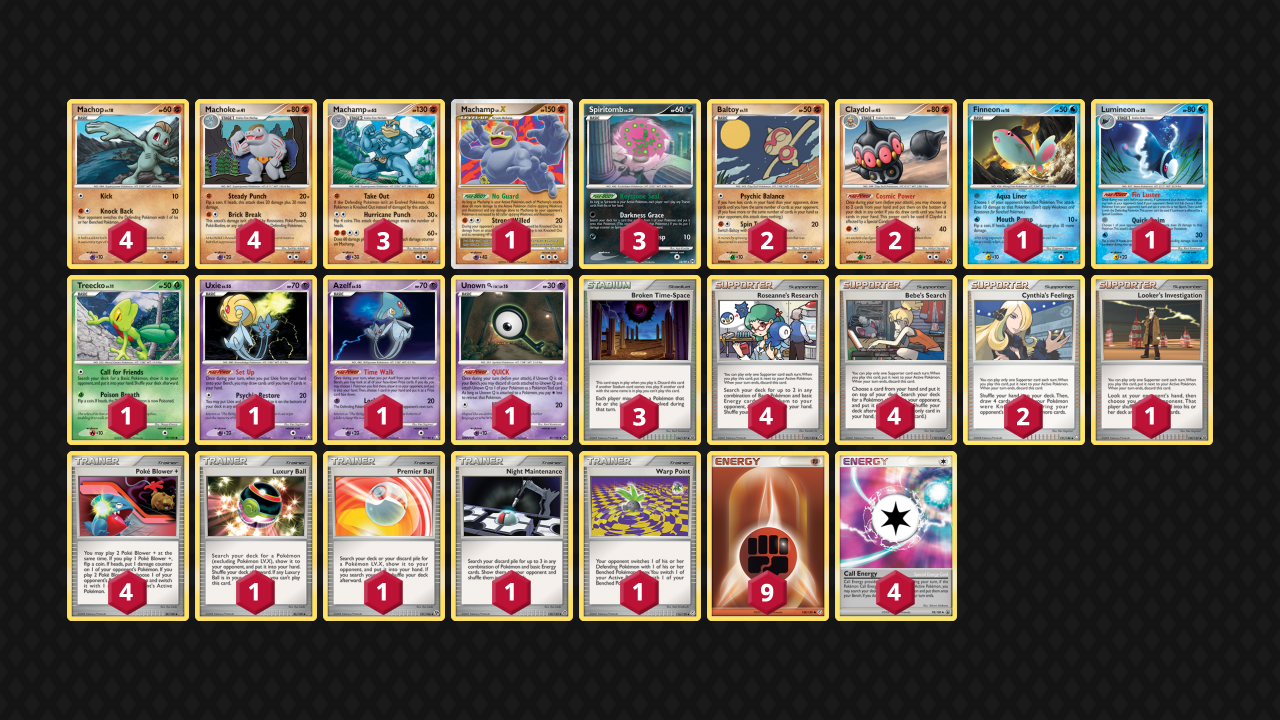
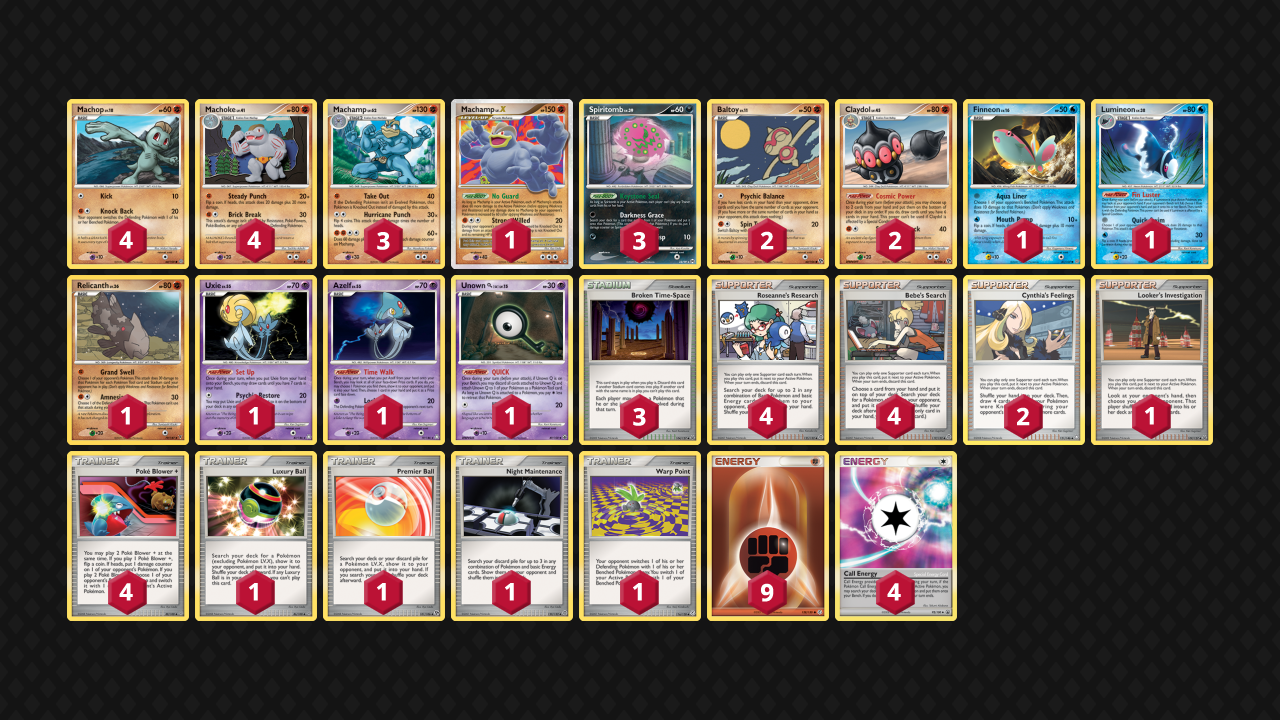
Fix 2009 Machamp list and image

Changed region(s): [[0.0312, 0.3667, 0.1562, 0.6111]]

diff --git a/_decks/2009-machamp.md b/_decks/2009-machamp.md
@@ -45,7 +45,7 @@ cards:
       number: 4
       quantity: 1
     - name: Relicanth
-      set: SF
+      set: SV
       number: 79
       quantity: 1
     - name: Uxie
